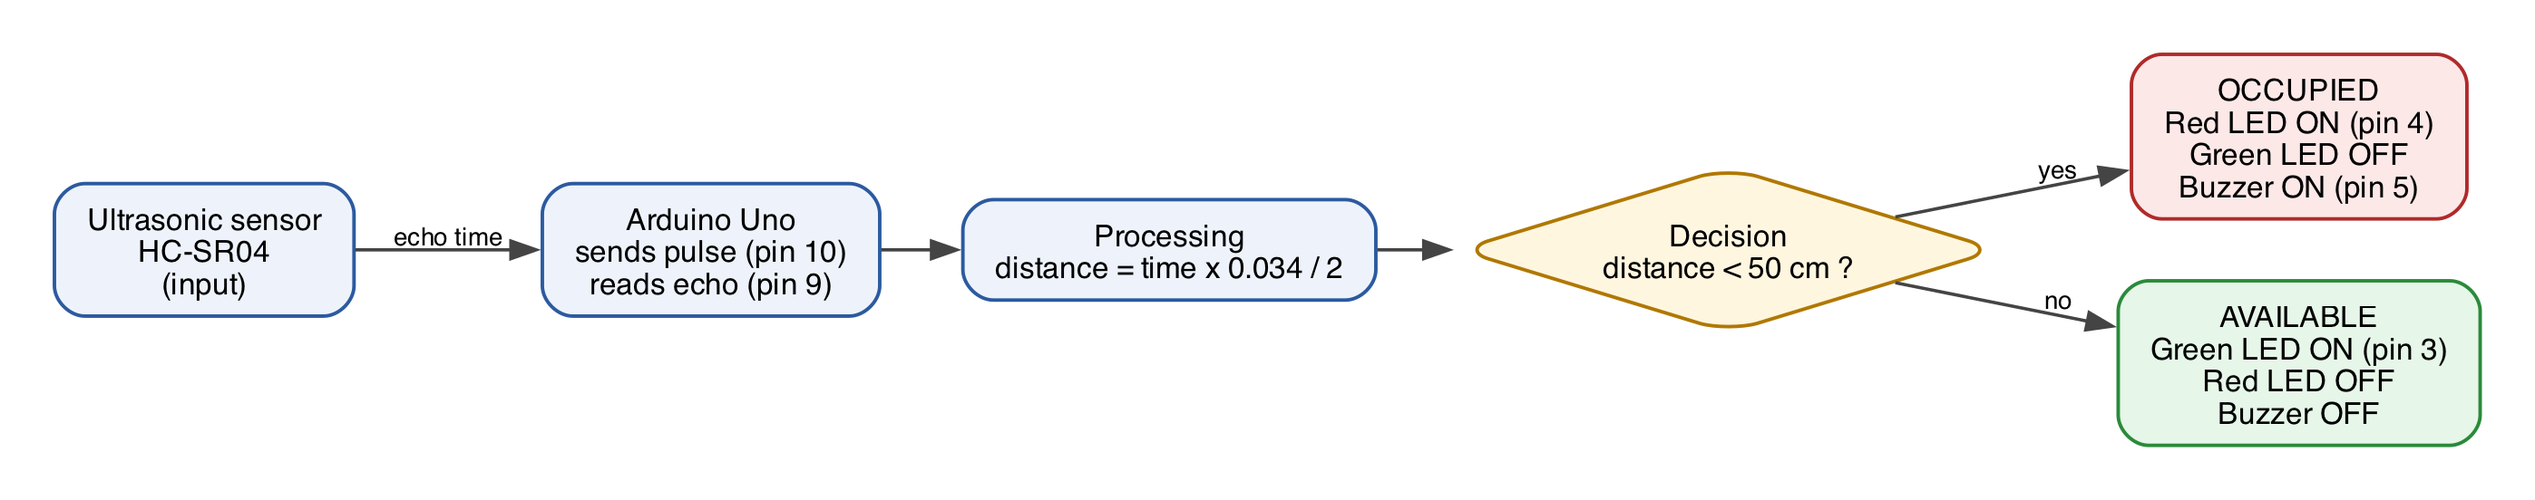
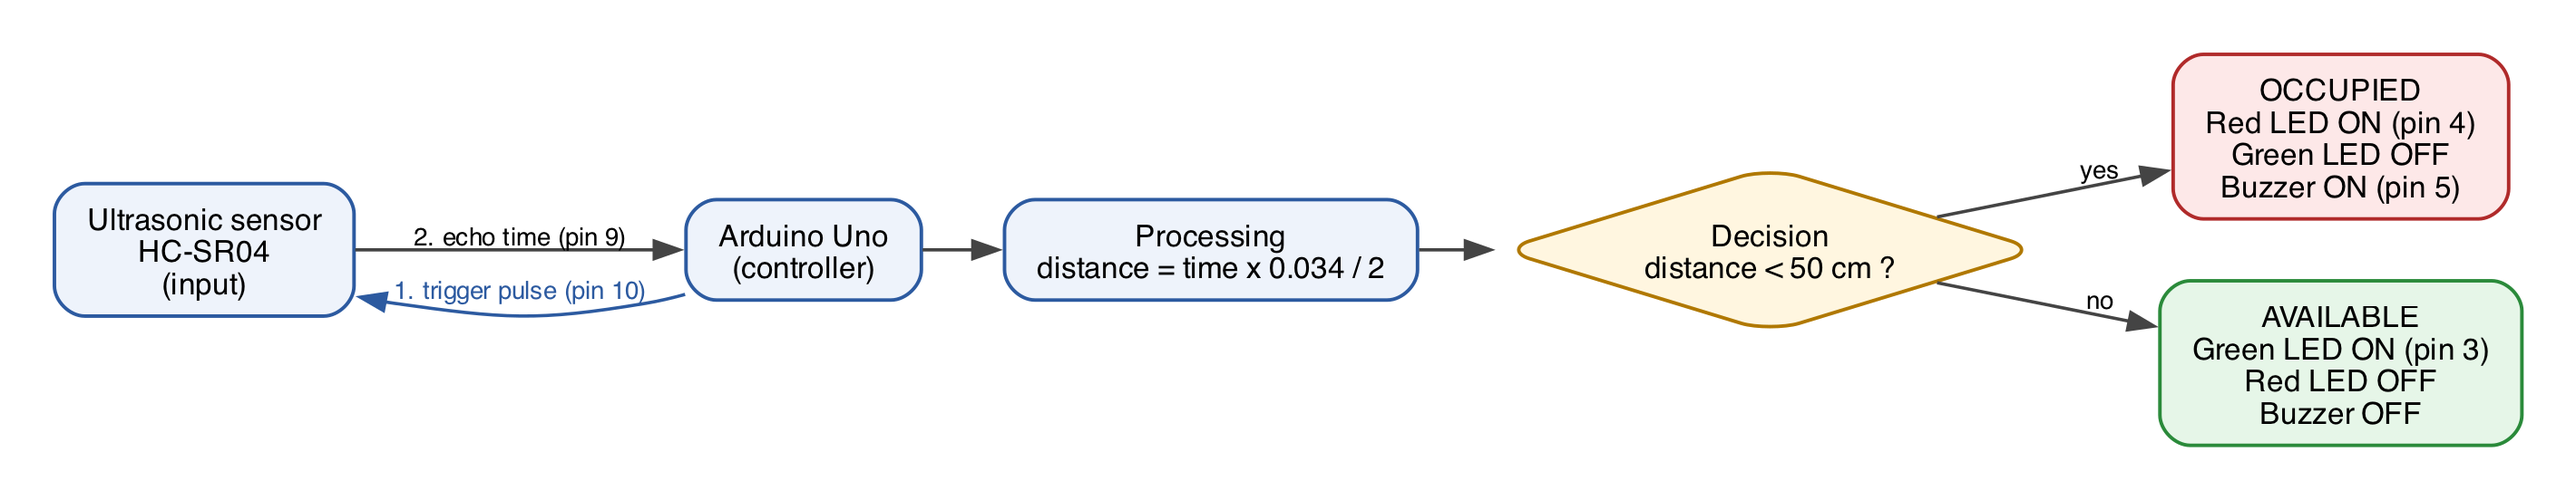
q4: threshold tests at 55 and 45 cm, trigger arrow in block diagram

diff --git a/q4/parking_readme.md b/q4/parking_readme.md
@@ -7,7 +7,7 @@
 | 1 | Tinkercad circuit design showing all components and connections | [Section 1](#1-tinkercad-circuit-design), [`images/circuit.jpg`](images/circuit.jpg), [live design on Tinkercad](https://www.tinkercad.com/things/af6CaRZ7KVX-smart-parking-system?sharecode=5jWkTN-CQHOvnFIWV-pHdCgkueqLRMvHqunsgteppko) |
 | 2 | Block diagram showing the flow of data through the system | [Section 2](#2-block-diagram), [`images/block_diagram.png`](images/block_diagram.png) |
 | 3 | Arduino source code used in the Tinkercad simulation | [Section 3](#3-arduino-source-code), [`parking.ino`](parking.ino) |
-| 4 | At least two simulation test cases | [Section 4](#4-simulation-test-cases), three tests, screenshots in [`images/`](images) |
+| 4 | At least two simulation test cases | [Section 4](#4-simulation-test-cases), five tests, two of them either side of the threshold, screenshots in [`images/`](images) |
 | 5 | Short explanation describing the role of each component, how sensor data is processed, how the Arduino controls the outputs | [Section 5](#5-short-explanation) |
 
 ## 1. Tinkercad circuit design
@@ -34,6 +34,8 @@ I built everything on a small breadboard so the wiring stays tidy. Every wire ha
 
 ![Block diagram](images/block_diagram.png)
 
+The arrows between the sensor and the Arduino go both ways. First the Arduino sends a trigger pulse to the sensor on pin 10. Then the sensor sends the echo time back on pin 9.
+
 
 ## 3. Arduino source code
 
@@ -43,13 +45,15 @@ I picked 50 cm as the threshold. If something is closer than 50 cm, a car is par
 
 ## 4. Simulation test cases
 
-In Tinkercad, you click the sensor while the simulation runs and drag the little ball to change the distance. I did three tests and kept the Serial Monitor open to see the numbers.
+In Tinkercad, you click the sensor while the simulation runs and drag the little ball to change the distance. I did five tests and kept the Serial Monitor open to see the numbers. Tests 4 and 5 sit just either side of the 50 cm threshold.
 
 | Test | Distance | Serial Monitor | Green | Red | Buzzer | OK? |
-|---|---|---|---|---|---|---|
+|----------|------|----------|----|----|------|----|
 | 1. No car, far away | 171.9 cm | 169 cm, AVAILABLE | ON | OFF | OFF | Yes |
 | 2. Car parked close | 21.6 cm | 21 cm, OCCUPIED | OFF | ON | ON (beeping) | Yes |
 | 3. Car drives away again | 110.8 cm | 109 cm, AVAILABLE | ON | OFF | OFF | Yes |
+| 4. Just outside the threshold | 55.3 cm | 54 cm, AVAILABLE | ON | OFF | OFF | Yes |
+| 5. Just inside the threshold | 45.4 cm | 44 cm, OCCUPIED | OFF | ON | ON (beeping) | Yes |
 
 Test 1: no car (171.9 cm), green LED on
 
@@ -62,6 +66,14 @@ Test 2: car close (21.6 cm), red LED on and buzzer sounding
 Test 3: car leaves (110.8 cm), back to green
 
 ![Test 3](images/test3_back_out_110cm.jpg)
+
+Test 4: just outside the threshold (55.3 cm), still green
+
+![Test 4](images/test4_just_outside_55cm.jpg)
+
+Test 5: just inside the threshold (45.4 cm), red LED on and buzzer sounding
+
+![Test 5](images/test5_just_inside_45cm.jpg)
 
 The number in the Serial Monitor is a bit lower than the one Tinkercad shows. That's because my code uses whole numbers and a rounded speed of sound, so it's close but not exact. It doesn't matter here, because all we care about is whether the car is closer or further than 50 cm.
 
